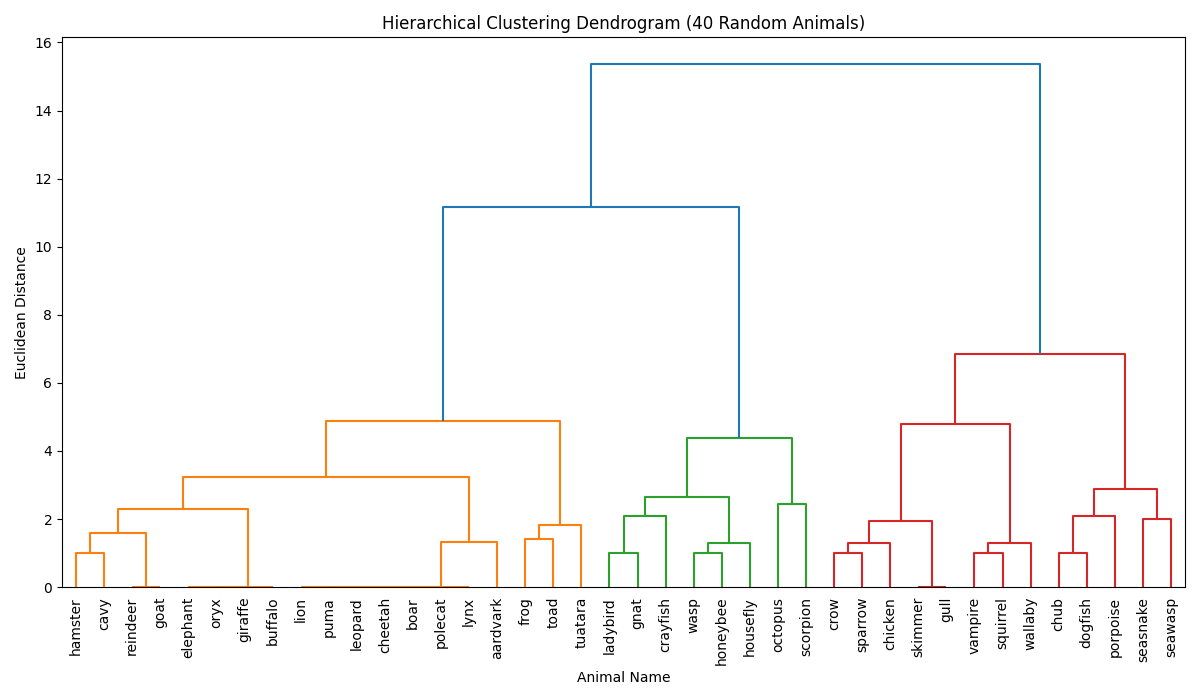
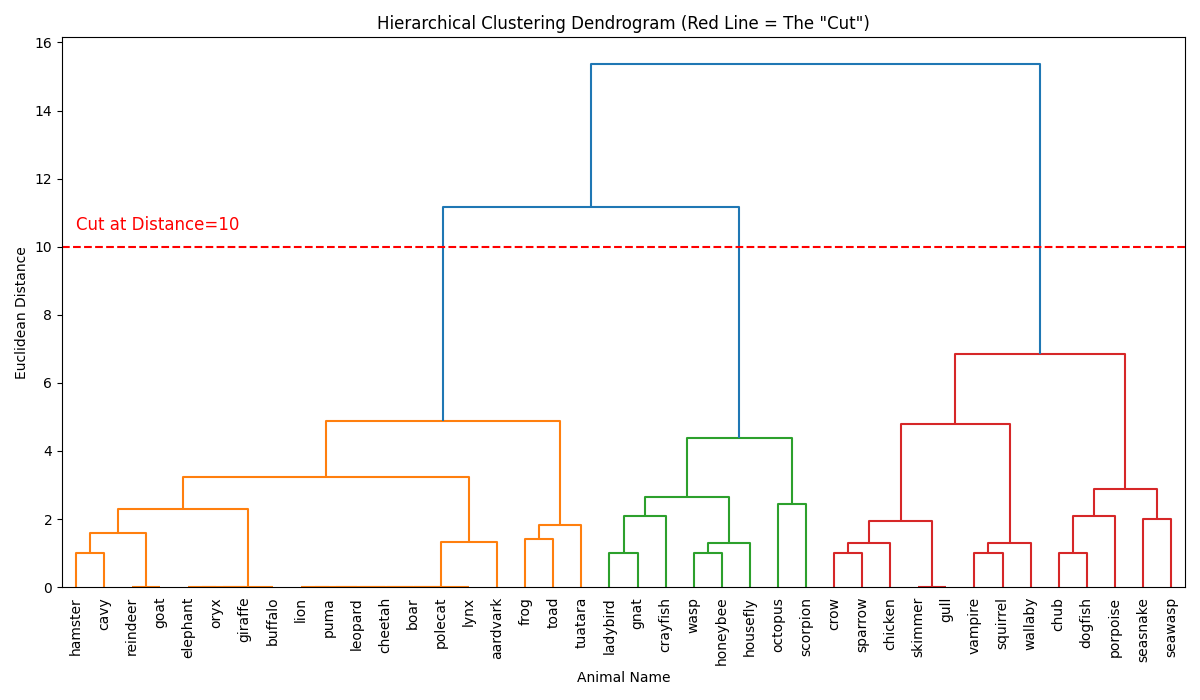
feat: Add Hierarchical Clustering implementation for Zoo dataset with README and dendrogram image.

Changed region(s): [[0.3083, 0.0, 0.74, 0.06], [0.0617, 0.3, 0.2158, 0.33]]

diff --git a/day14/Hierarchical_Clustering_Zoo.py b/day14/Hierarchical_Clustering_Zoo.py
@@ -64,7 +64,14 @@ dendrogram(linked,
             show_leaf_counts=True,
             leaf_rotation=90,
             leaf_font_size=10)
-plt.title('Hierarchical Clustering Dendrogram (40 Random Animals)')
+
+# 畫出「切一刀」的示意線 (假設我們在距離=10的地方切)
+# 這條線穿過了幾條垂直線，就代表分成了幾群
+threshold = 10
+plt.axhline(y=threshold, color='r', linestyle='--')
+plt.text(x=5, y=threshold + 0.5, s=f'Cut at Distance={threshold}', color='r', fontsize=12)
+
+plt.title('Hierarchical Clustering Dendrogram (Red Line = The "Cut")')
 plt.xlabel('Animal Name')
 plt.ylabel('Euclidean Distance')
 plt.tight_layout()

diff --git a/day14/README.md b/day14/README.md
@@ -42,7 +42,10 @@
     *   然後慢慢切開，直到每個人都散開。 (計算量大，較少用)。
 
 #### 2.2 距離怎麼算？ (Linkage Methods)
-當我們要合併「兩個群」時，距離怎麼定義？
+當我們要合併「兩個群」時，首先要定義兩點之間的距離 (通常用歐式距離)：
+$$d(p, q) = \sqrt{\sum_{i=1}^{n} (q_i - p_i)^2}$$
+
+接著定義「群與群」的距離：
 *   **Single Linkage**: 群與群之間 **最近** 的點距離 (容易產生長條狀聚類)。
 *   **Complete Linkage**: 群與群之間 **最遠** 的點距離 (傾向產生球狀聚類)。
 *   **Average Linkage**: 群與群之間 **所有點** 的平均距離。
@@ -52,7 +55,17 @@
 這是層次聚類的神器！它記錄了合併的過程。
 *   **X 軸**：每個樣本 (動物)。
 *   **Y 軸**：距離 (Distance)。
-*   **怎麼看**：Y 軸越高的地方合併，代表這兩群差異越大。我們可以在 Y 軸選一個高度「切一刀」，決定要分幾群。
+*   **怎麼看**：Y 軸越高的地方合併，代表這兩群差異越大。
+
+#### 2.4 什麼時候停止？ (How to determine optimal clusters?)
+他怎麼知道聚合到第幾次為最佳？其實演算法會一直聚合到剩下一大群為止。**決定「最佳群數」的權力在我們手上 (切一刀)**。
+
+*   **視覺化切法**：請看下圖 (Dendrogram) 中的 **紅色虛線**。
+    *   這條紅線就是我們的「刀」。
+    *   當我們在 Y=10 的高度切下去時，紅線**穿過了幾條垂直線** (Vertical Lines)，就代表我們分出了幾群。
+    *   如果把紅線往上移 (距離變大)，穿過的線變少，群數變少 (分得粗)。
+    *   如果把紅線往下移 (距離變小)，穿過的線變多，群數變多 (分得細)。
+*   **最佳切點**：通常會選在「最長的垂直線段」中間切一刀，因為這代表這幾群在很長一段距離內都很穩定，沒有發生合併。
 
 ## 3. 實戰
 ### Python 程式碼實作
